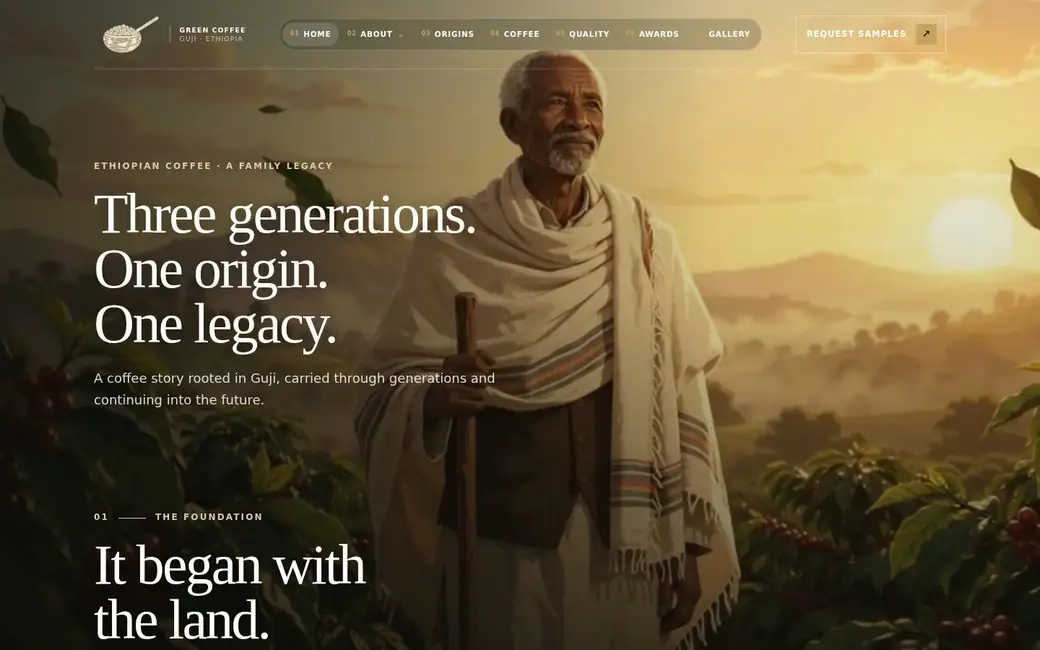
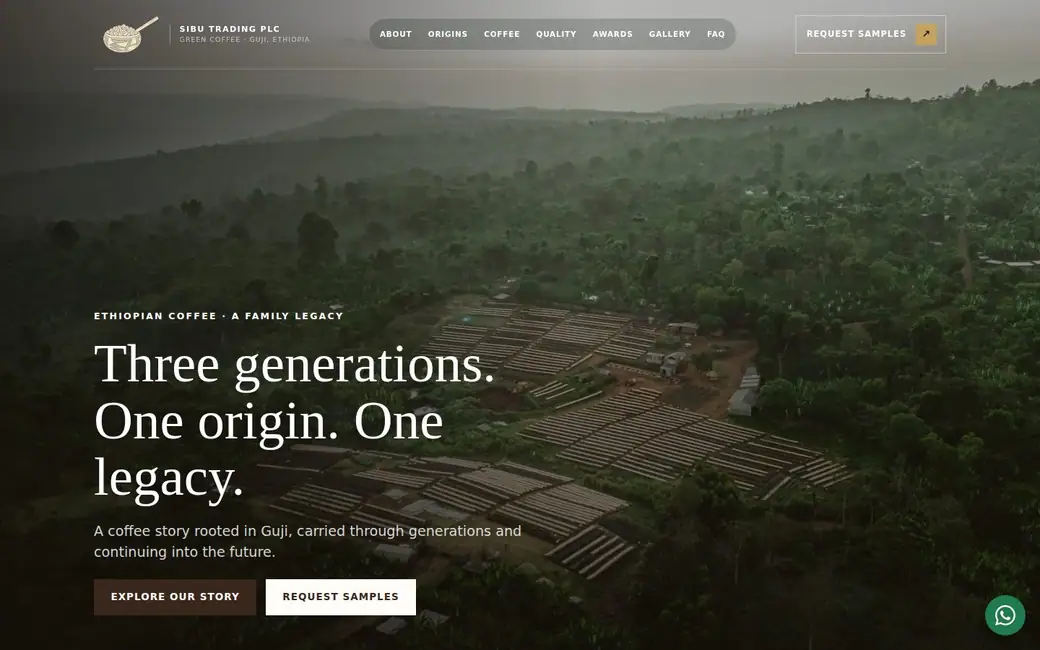
feat: publish refreshed ADMAKI custom-domain portfolio projects
* content: add Enkupanet, Hayked and Maison Debrah; link verified production custom domains

* ux: feature verified production sites and distinguish draft-preview links

* assets: capture new custom-domain website previews and support selective hero refresh

* ci: capture new project hero covers from verified live custom domains

* docs: record verified custom domains and draft-preview status for portfolio

* assets: add authentic custom-domain portfolio hero covers

---------

diff --git a/src/components/sections/EditorialWork.tsx b/src/components/sections/EditorialWork.tsx
@@ -13,8 +13,9 @@ const filters: Filter[] = ['All work', 'Websites', 'Business systems'];
 // Open with a stronger visual mix: cinematic site, electronics, restaurant tech,
 // and an ERP product. KKGT Coffee stays in the portfolio without leading it.
 const showcaseOrder = [
-  'sibu', 'universal', 'gurshamenu', 'hayked', 'kkgt-coffee', 'getfit',
-  'orbit', 'kkgt-trade', 'beanledger', 'lobelia', 'ephrem', 'bethager', 'koffera',
+  'sibu', 'universal', 'enkupanet', 'gurshamenu', 'hayked', 'kkgt-coffee',
+  'hayked-trading', 'getfit', 'orbit', 'kkgt-trade', 'beanledger',
+  'maison-debrah', 'lobelia', 'ephrem', 'bethager', 'koffera',
 ];
 const order = new Map(showcaseOrder.map((id, index) => [id, index]));
 const orderedProjects = [...workProjects].sort(
@@ -29,7 +30,7 @@ function ProjectCard({ project, index }: { project: WorkProject; index: number }
     <article className="ed-project" data-project={project.id} data-reveal style={{ '--reveal-delay': Math.min(index % 2, 1) * 100 + 'ms' } as CSSProperties}>
       <div className="ed-project-top"><span>{String(index + 1).padStart(2, '0')} / {project.eyebrow}</span><span>{project.status}</span></div>
       {primaryUrl ? (
-        <a className={`ed-project-art theme-${project.theme}`} data-cursor-label={project.category === 'Websites' ? 'VIEW SITE ↗' : 'CASE STUDY ↗'} href={primaryUrl} target={external ? '_blank' : undefined} rel={external ? 'noopener noreferrer' : undefined} aria-label={`Explore ${project.title}`}>
+        <a className={`ed-project-art theme-${project.theme}`} data-cursor-label={project.status === 'Preview' ? 'PREVIEW ↗' : project.category === 'Websites' ? 'VIEW SITE ↗' : 'CASE STUDY ↗'} href={primaryUrl} target={external ? '_blank' : undefined} rel={external ? 'noopener noreferrer' : undefined} aria-label={`Explore ${project.title}`}>
           <ProjectArtwork project={project} />
           <span className="ed-art-arrow" aria-hidden="true">↗</span>
         </a>
@@ -40,7 +41,7 @@ function ProjectCard({ project, index }: { project: WorkProject; index: number }
         <div><h3>{project.title}</h3><p>{project.description}</p></div>
         <div className="ed-project-links">
           {project.caseStudyUrl && <a href={withBasePath(project.caseStudyUrl)}>Case study ↗</a>}
-          {project.liveUrl && <a href={project.liveUrl} target="_blank" rel="noopener noreferrer">Open website ↗</a>}
+          {project.liveUrl && <a href={project.liveUrl} target="_blank" rel="noopener noreferrer">{project.status === 'Preview' ? 'View preview ↗' : 'Open website ↗'}</a>}
           {project.repoUrl && <a href={project.repoUrl} target="_blank" rel="noopener noreferrer">Source ↗</a>}
         </div>
       </div>
@@ -73,7 +74,7 @@ function ProjectArtwork({ project }: { project: WorkProject }) {
             onError={() => setImageFailed(true)}
           />
           <span className="ed-cover-annotation">
-            {project.category === 'Business systems' ? 'PRODUCT PREVIEW' : project.status === 'Concept' ? 'CONCEPT HOMEPAGE' : 'ACTUAL HOMEPAGE'}
+            {project.category === 'Business systems' ? 'PRODUCT PREVIEW' : project.status === 'Concept' ? 'CONCEPT HOMEPAGE' : project.status === 'Preview' ? 'DRAFT PREVIEW' : 'ACTUAL HOMEPAGE'}
           </span>
         </div>
       </div>

diff --git a/src/data/portfolio.ts b/src/data/portfolio.ts
@@ -6,7 +6,7 @@
  * labelled as such. Add screenshots only after reviewing image permissions.
  */
 export type WorkCategory = 'Websites' | 'Business systems';
-export type WorkStatus = 'Website' | 'Product' | 'Concept';
+export type WorkStatus = 'Website' | 'Product' | 'Concept' | 'Preview';
 export type WorkTheme = 'coffee' | 'trade' | 'electric' | 'fitness' | 'food' | 'health' | 'hotel' | 'gallery' | 'furniture' | 'software';
 
 export type WorkProject = {
@@ -20,7 +20,7 @@ export type WorkProject = {
   liveUrl?: string;
   repoUrl?: string;
   caseStudyUrl?: string;
-  screenshot?: string; // /images/covers/<id>.jpg compressed WebP captured from the actual website homepage
+  screenshot?: string; // /images/covers/<id>.webp — actual homepage screenshot, not stock art
   featured?: boolean;
 };
 
@@ -52,9 +52,27 @@ export const workProjects: WorkProject[] = [
     id: 'sibu', title: 'Sibu Trading PLC', eyebrow: 'Coffee / Export',
     category: 'Websites', status: 'Website', theme: 'coffee',
     description: 'An origin-led presentation of Ethiopian coffee and trading operations.',
-    liveUrl: 'https://yohannesmulugeta.github.io/SIBU-TRADING-PLC/',
+    liveUrl: 'https://sibutradingplc.com/',
     repoUrl: git + 'SIBU-TRADING-PLC',
     screenshot: '/images/covers/sibu.webp',
+  },
+  {
+    id: 'enkupanet', title: 'Enkupanet Agro Trading', eyebrow: 'Agriculture / Global trade',
+    category: 'Websites', status: 'Website', theme: 'trade', featured: true,
+    description: 'A bilingual corporate and product website for Ethiopian agricultural export products.',
+    liveUrl: 'https://enkupanetagrotrading.com/',
+    repoUrl: git + 'Enkupanet',
+    screenshot: '/images/covers/enkupanet.webp',
+  },
+  {
+    id: 'hayked-trading', title: 'Hayked General Trading', eyebrow: 'Coffee / Corporate preview',
+    category: 'Websites', status: 'Preview', theme: 'coffee',
+    description: 'A coffee export and processing website preview, with origin and warehouse services.',
+    // The custom domain currently returns an HTTP error. Show the working
+    // GitHub Pages preview until deployment is repaired and verified.
+    liveUrl: 'https://yohannesmulugeta.github.io/hayked-trading/',
+    repoUrl: git + 'hayked-trading',
+    screenshot: '/images/covers/hayked-trading.webp',
   },
   {
     id: 'gurshamenu', title: 'GurshaMenu', eyebrow: 'Restaurant technology',
@@ -87,6 +105,16 @@ export const workProjects: WorkProject[] = [
     liveUrl: 'https://yohannesmulugeta.github.io/Hotel-Lobelia/',
     repoUrl: git + 'Hotel-Lobelia',
     screenshot: '/images/covers/lobelia.webp',
+  },
+  {
+    id: 'maison-debrah', title: 'Maison Debrah Ethiopia', eyebrow: 'Luxury interiors / Client preview',
+    category: 'Websites', status: 'Preview', theme: 'furniture',
+    description: 'A luxury furniture and interiors storefront preview. Client launch approval remains pending.',
+    // Domain is accessible, but the website is explicitly marked as an
+    // unapproved client draft in the source repository.
+    liveUrl: 'https://maisondebrah-et.com/',
+    repoUrl: git + 'maison-debrah-et-last-edition',
+    screenshot: '/images/covers/maison-debrah.webp',
   },
   {
     id: 'koffera', title: 'Koffera Coffee', eyebrow: 'Coffee / Concept',

diff --git a/README.md b/README.md
@@ -26,19 +26,29 @@ Each `workProjects` entry supports:
 
 Projects without a screenshot use **conceptual editorial artwork**, which does not pretend to be a screenshot. "Concept" and demo entries are clearly labelled.
 
+### Custom-domain portfolio projects
+
+Project links and publication labels are maintained in `src/data/portfolio.ts`.
+
+| Portfolio project | Preferred public URL | Portfolio status |
+| --- | --- | --- |
+| Sibu Trading PLC | https://sibutradingplc.com/ | Production website |
+| KKGT Coffee | https://kkgtcoffee.com/ | Public website |
+| KKGT Import & Export | https://kkgtimportexport.com/ | Public website |
+| Universal Electronics | https://universalelectronicet.com/ | Public website |
+| Enkupanet Agro Trading | https://enkupanetagrotrading.com/ | Public website |
+| Maison Debrah Ethiopia | https://maisondebrah-et.com/ | **Client preview awaiting approval** |
+| Hayked General Trading | https://yohannesmulugeta.github.io/hayked-trading/ | **GitHub Pages preview**; custom domain is presently unavailable |
+
+The browser was able to fetch the first six custom-domain homepages during the November 2026 update. The presence of a public draft domain does not imply the client has approved a production launch. Repair and verify `https://haykedtrading.com/` before replacing the working Hayked preview URL. Do not invent missing launch approvals.
+
+Four new or refreshed screenshots are prepared as optimized local WebP cover assets from the public homepages. The capture helper lives at `scripts/capture-project-covers.mjs`; set `COVER_IDS` to refresh only selected projects.
+
 ### Social media: Universal / KKGT / Finder
 
-Update `socialBrands` in `src/data/portfolio.ts`. For each entry, add links in its `channels` list:
+The `socialBrands` array in `src/data/portfolio.ts` contains nine selected TikTok posts (three videos per brand), each with an exact video URL, video ID, uploader attribution, and official profile URL. The showcase uses `src/components/sections/SocialShowcase.tsx` to load at most one TikTok embed when needed. TikTok may restrict automatic playback; every video has a direct link.
 
-```ts
-channels: [
-  { label: 'TikTok', url: 'https://www.tiktok.com/@your-approved-handle' },
-  { label: 'Instagram', url: '' },
-  { label: 'Campaign work', url: '' },
-],
-```
-
-Blank URLs render as **link coming soon**, not broken or fake links. Replace the geometric social art with client-approved thumbnails when available.
+To use an original MP4 instead of an embed, obtain an approved export and implement a performant HTML5 video source with a poster. Do not download/rehost TikTok posts without permission.
 
 ### ADMAKI contact details
 
